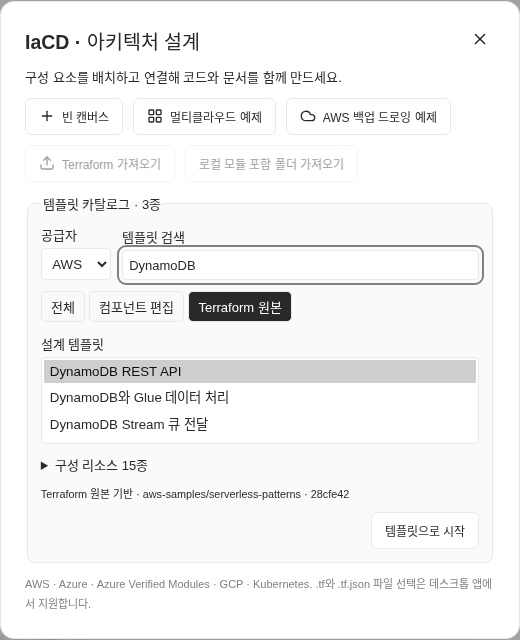
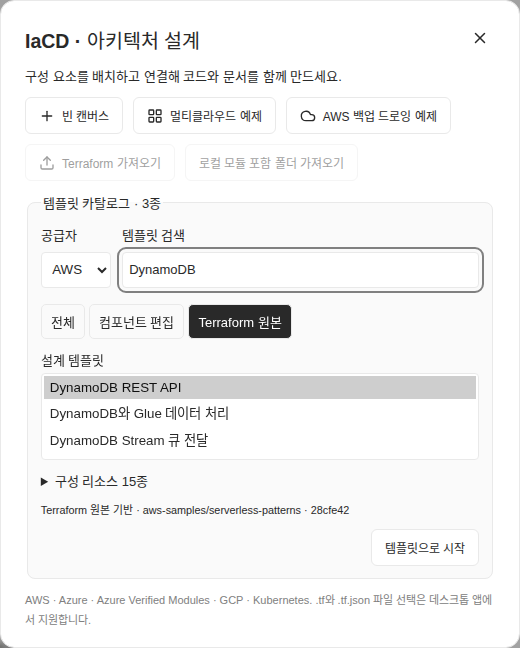
Separate template search controls and adjacent workspace actions

diff --git a/src/styles.css b/src/styles.css
@@ -797,7 +797,7 @@ textarea {
   border: 1px solid var(--line);
   border-radius: 7px;
   padding: 3px;
-  gap: 3px;
+  gap: 5px;
 }
 .segmented button {
   display: flex;
@@ -2375,6 +2375,11 @@ textarea {
   font: 11px/1.5 monospace;
   overflow-wrap: anywhere;
 }
+.arch-code nav button + button,
+.context .backlink + .backlink { margin-block-start: 4px; }
+@media (min-width: 601px) {
+  .arch-palette > button + button { margin-block-start: 4px; }
+}
 .arch-code nav button.active {
   background: var(--active);
   border-radius: 5px;
@@ -2505,7 +2510,7 @@ textarea {
 .network-sheet {flex:1;min-height:0;max-height:none;}
 .network-layout.fit .network-sheet svg {width:100%;height:100%;min-width:0;}
 
-.page-row {display:flex;align-items:center;border-radius:6px;}
+.page-row {display:flex;align-items:center;column-gap:4px;border-radius:6px;}
 .page-row.current {background:var(--active);}
 .page-tree .note-item {padding:7px 3px;flex:1;margin:0;min-width:0;}
 .page-row svg {flex-shrink:0;}
@@ -2683,10 +2688,13 @@ textarea {
 .architecture-catalog select { max-width: 100%; }
 
 .catalog-modes, .catalog-empty { grid-column: 1 / -1; }
-.catalog-modes { display: flex; flex-wrap: wrap; gap: 4px; }
+.architecture-catalog .catalog-field { row-gap: 8px; }
+.architecture-catalog .catalog-field :is(input, select) { min-height: 36px; }
+.catalog-modes { display: flex; flex-wrap: wrap; gap: 8px 4px; margin-block-start: calc(16px - .7rem); }
 .catalog-modes button, .catalog-empty button, .code-jump {
   padding: 5px 9px; color: inherit; border: 1px solid var(--line); border-radius: 5px;
 }
+.catalog-modes button { padding-block: 7px; }
 .catalog-modes button[aria-pressed="true"] { background: var(--ink); color: var(--bg); }
 .architecture-catalog select[size] { padding: 2px; }
 .architecture-catalog select[size] option { padding: 4px 6px; }

diff --git a/tests/ui/layout.spec.ts b/tests/ui/layout.spec.ts
@@ -103,6 +103,16 @@ for (const width of [390, 780, 1440]) {
       expect(await gapAbove(section + " > " + actions)).toBeGreaterThanOrEqual(12);
       expect(await page.locator(section).evaluate(e => parseFloat(getComputedStyle(e).paddingLeft))).toBeGreaterThanOrEqual(16);
       await fitsWidth(page, section);
+      if (section === ".architecture-start") {
+        const input = page.getByLabel("템플릿 검색");
+        const caption = page.locator(".catalog-field > span").filter({ hasText: "템플릿 검색" });
+        const filter = page.getByRole("button", { name: "전체", exact: true });
+        const [field, label, firstButton] = await Promise.all([
+          input.boundingBox(), caption.boundingBox(), filter.boundingBox(),
+        ]);
+        expect(field!.y - label!.y - label!.height).toBeCloseTo(8, 0);
+        expect(firstButton!.y - field!.y - field!.height).toBeCloseTo(16, 0);
+      }
       await page.locator(section + " header button").click();
     }
     await openFromMenu("새 시트 테이블");

diff --git a/src/ArchitectureDocument.tsx b/src/ArchitectureDocument.tsx
@@ -240,8 +240,8 @@ export function ArchitectureStart({
         </div>
         <fieldset disabled={busy} className="architecture-catalog">
           <legend>템플릿 카탈로그 · {matches.length}종</legend>
-          <label>
-            공급자
+          <label className="catalog-field">
+            <span>공급자</span>
             <select
               aria-label="공급자"
               value={provider}
@@ -257,8 +257,8 @@ export function ArchitectureStart({
               ))}
             </select>
           </label>
-          <label>
-            템플릿 검색
+          <label className="catalog-field">
+            <span>템플릿 검색</span>
             <input
               value={catalogSearch}
               onChange={(e) => setCatalogSearch(e.target.value)}
